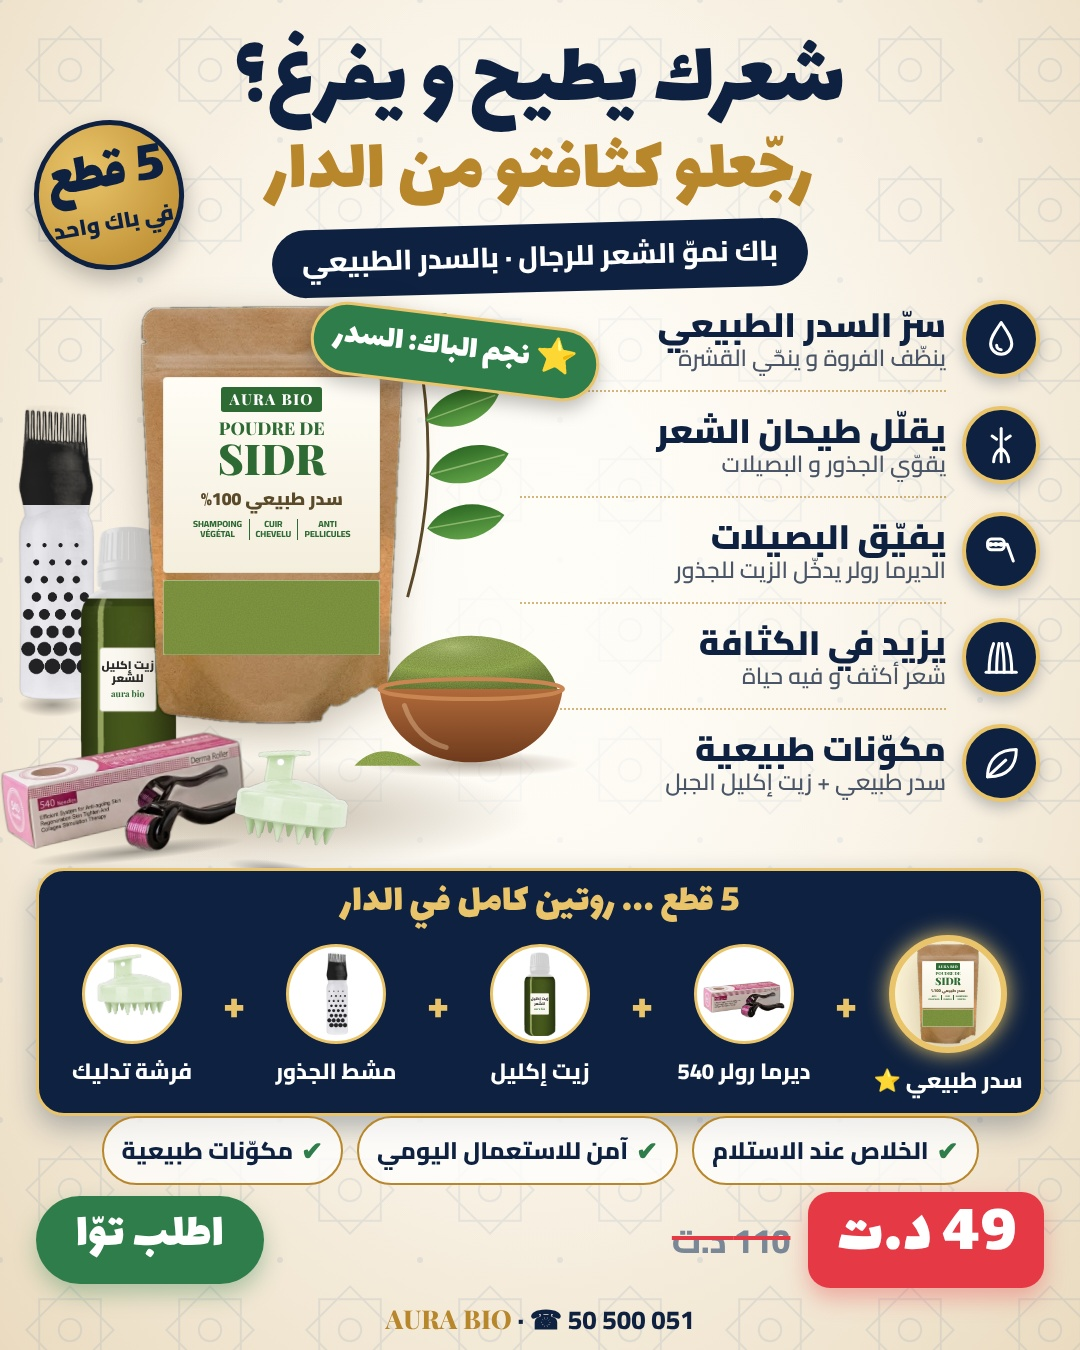
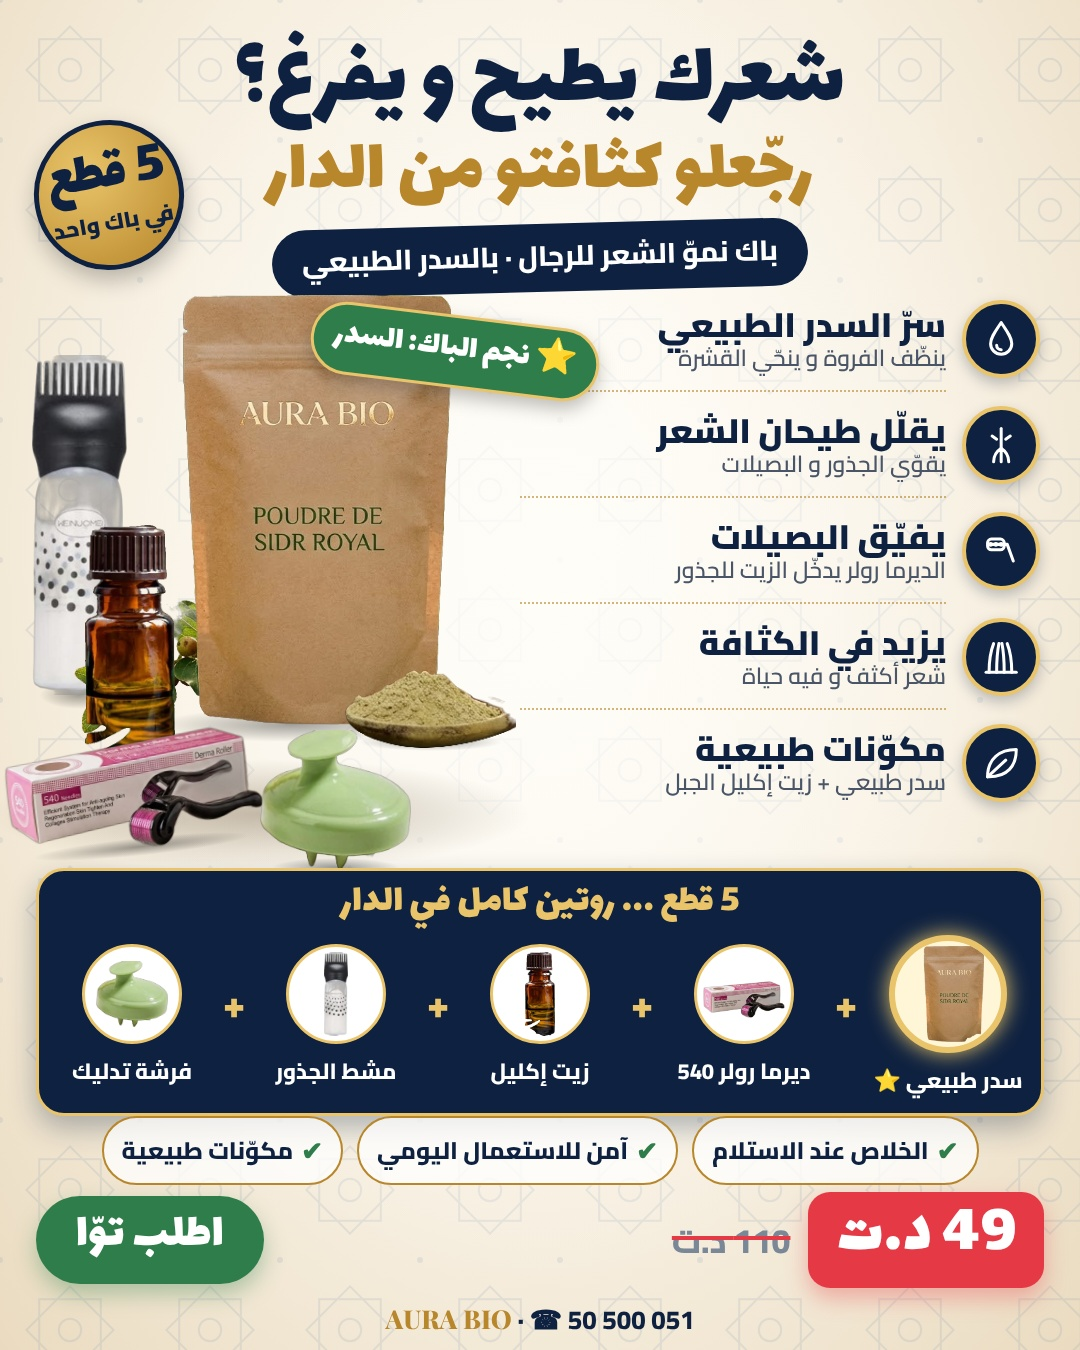
Real-pack static: switch to photo cut-outs (real sidr pouch + powder spoon + jujube leaves, amber rosemary bottle, green brush, white applicator)
Claude-Session: https://claude.ai/code/session_01FhwxWW9SZQzQKUB1AtjoA4

diff --git a/src/statics/RealPackAd.tsx b/src/statics/RealPackAd.tsx
@@ -1,8 +1,6 @@
 import React from "react";
 import { AbsoluteFill } from "remotion";
 import { TilePattern } from "../components/Decor";
-import { RosemaryBottle } from "../components/RosemaryBottle";
-import { SidrPouch } from "../components/SidrPouch";
 import { ProductImage, type ProductKey } from "../components/ProductImage";
 import { PHONE, PRICES, STORE_NAME, VALUE_TOTAL } from "../config";
 import { bodyFont, brandFont, colors, displayFont } from "../theme";
@@ -164,35 +162,48 @@ const Packshot: React.FC = () => (
           "radial-gradient(closest-side, rgba(70,45,10,0.30), rgba(70,45,10,0))",
       }}
     />
-    {/* supporting pieces behind / around */}
+    {/* supporting pieces behind / around (real photos) */}
     <ProductImage
-      product="applicatorWhite"
-      height={300}
-      style={{ position: "absolute", left: 0, top: 130 }}
+      product="applicatorPhoto"
+      height={340}
+      style={{ position: "absolute", left: 22, top: 80 }}
     />
-    <RosemaryBottle
+    <ProductImage
+      product="leavesPhoto"
+      height={110}
+      shadow={false}
+      style={{ position: "absolute", left: 60, top: 330, rotate: "-12deg" }}
+    />
+    {/* hero: sidr pouch, front and centre */}
+    <ProductImage
+      product="sidrPhoto"
+      height={430}
+      style={{ position: "absolute", left: 120, top: 20 }}
+    />
+    <ProductImage
+      product="oilPhoto"
       height={250}
-      style={{ position: "absolute", left: 70, top: 250 }}
+      style={{ position: "absolute", left: 75, top: 250 }}
     />
-    {/* hero: sidr pouch + bowl, front and centre */}
-    <SidrPouch
-      height={420}
-      style={{ position: "absolute", left: 130, top: 30 }}
+    <ProductImage
+      product="spoonPhoto"
+      height={78}
+      style={{ position: "absolute", left: 335, top: 395 }}
     />
     <ProductImage
       product="dermaRoller"
       height={150}
       style={{
         position: "absolute",
-        left: -10,
-        top: 430,
+        left: -6,
+        top: 425,
         rotate: "-6deg",
       }}
     />
     <ProductImage
-      product="brushGreen"
-      height={130}
-      style={{ position: "absolute", left: 215, top: 470, rotate: "8deg" }}
+      product="brushPhoto"
+      height={140}
+      style={{ position: "absolute", left: 250, top: 455 }}
     />
     {/* "star of the pack" tag */}
     <div
@@ -220,11 +231,11 @@ const Packshot: React.FC = () => (
 
 // ---------- Routine bar ----------
 const ROUTINE: { product: ProductKey; label: string }[] = [
-  { product: "sidr", label: "سدر طبيعي ⭐" },
+  { product: "sidrPhoto", label: "سدر طبيعي ⭐" },
   { product: "dermaRoller", label: "ديرما رولر 540" },
-  { product: "rosemaryReal", label: "زيت إكليل" },
-  { product: "applicatorWhite", label: "مشط الجذور" },
-  { product: "brushGreen", label: "فرشة تدليك" },
+  { product: "oilPhoto", label: "زيت إكليل" },
+  { product: "applicatorPhoto", label: "مشط الجذور" },
+  { product: "brushPhoto", label: "فرشة تدليك" },
 ];
 
 const RoutineBar: React.FC = () => (
@@ -270,30 +281,32 @@ const RoutineBar: React.FC = () => (
           >
             <div
               style={{
-                width: r.product === "sidr" ? 118 : 100,
-                height: r.product === "sidr" ? 118 : 100,
+                width: r.product === "sidrPhoto" ? 118 : 100,
+                height: r.product === "sidrPhoto" ? 118 : 100,
                 borderRadius: "50%",
-                background: r.product === "sidr" ? "#FFF6D8" : colors.white,
-                border: `${r.product === "sidr" ? 6 : 3}px solid ${GOLD_LIGHT}`,
+                background: r.product === "sidrPhoto" ? "#FFF6D8" : colors.white,
+                border: `${r.product === "sidrPhoto" ? 6 : 3}px solid ${GOLD_LIGHT}`,
                 boxShadow:
-                  r.product === "sidr" ? `0 0 22px ${GOLD_LIGHT}` : "none",
+                  r.product === "sidrPhoto" ? `0 0 22px ${GOLD_LIGHT}` : "none",
                 display: "flex",
                 alignItems: "center",
                 justifyContent: "center",
                 overflow: "hidden",
               }}
             >
-              {r.product === "sidr" ? (
-                <SidrPouch height={100} withBowl={false} />
-              ) : r.product === "rosemaryReal" ? (
-                <RosemaryBottle height={84} shadow={false} />
-              ) : (
-                <ProductImage
-                  product={r.product}
-                  height={r.product === "dermaRoller" ? 48 : 84}
-                  shadow={false}
-                />
-              )}
+              <ProductImage
+                product={r.product}
+                height={
+                  r.product === "dermaRoller"
+                    ? 48
+                    : r.product === "brushPhoto"
+                      ? 66
+                      : r.product === "sidrPhoto"
+                        ? 96
+                        : 84
+                }
+                shadow={false}
+              />
             </div>
             <div
               style={{

diff --git a/src/components/ProductImage.tsx b/src/components/ProductImage.tsx
@@ -14,6 +14,13 @@ export const PRODUCTS = {
   brushGreen: { src: "products/brush-green.png", ratio: 676 / 700 },
   applicatorWhite: { src: "products/applicator-white.png", ratio: 255 / 900 },
   rosemaryReal: { src: "products/rosemary-real.png", ratio: 400 / 1020 },
+  // Real photos (cut out from the store's / reference photos)
+  sidrPhoto: { src: "products/photo/sidr-pouch.png", ratio: 453 / 606 },
+  oilPhoto: { src: "products/photo/oil-amber.png", ratio: 198 / 552 },
+  applicatorPhoto: { src: "products/photo/applicator.png", ratio: 234 / 840 },
+  brushPhoto: { src: "products/photo/brush-green.png", ratio: 359 / 333 },
+  spoonPhoto: { src: "products/photo/sidr-spoon.png", ratio: 182 / 83 },
+  leavesPhoto: { src: "products/photo/sidr-leaves.png", ratio: 279 / 158 },
 } as const;
 
 export type ProductKey = keyof typeof PRODUCTS;
